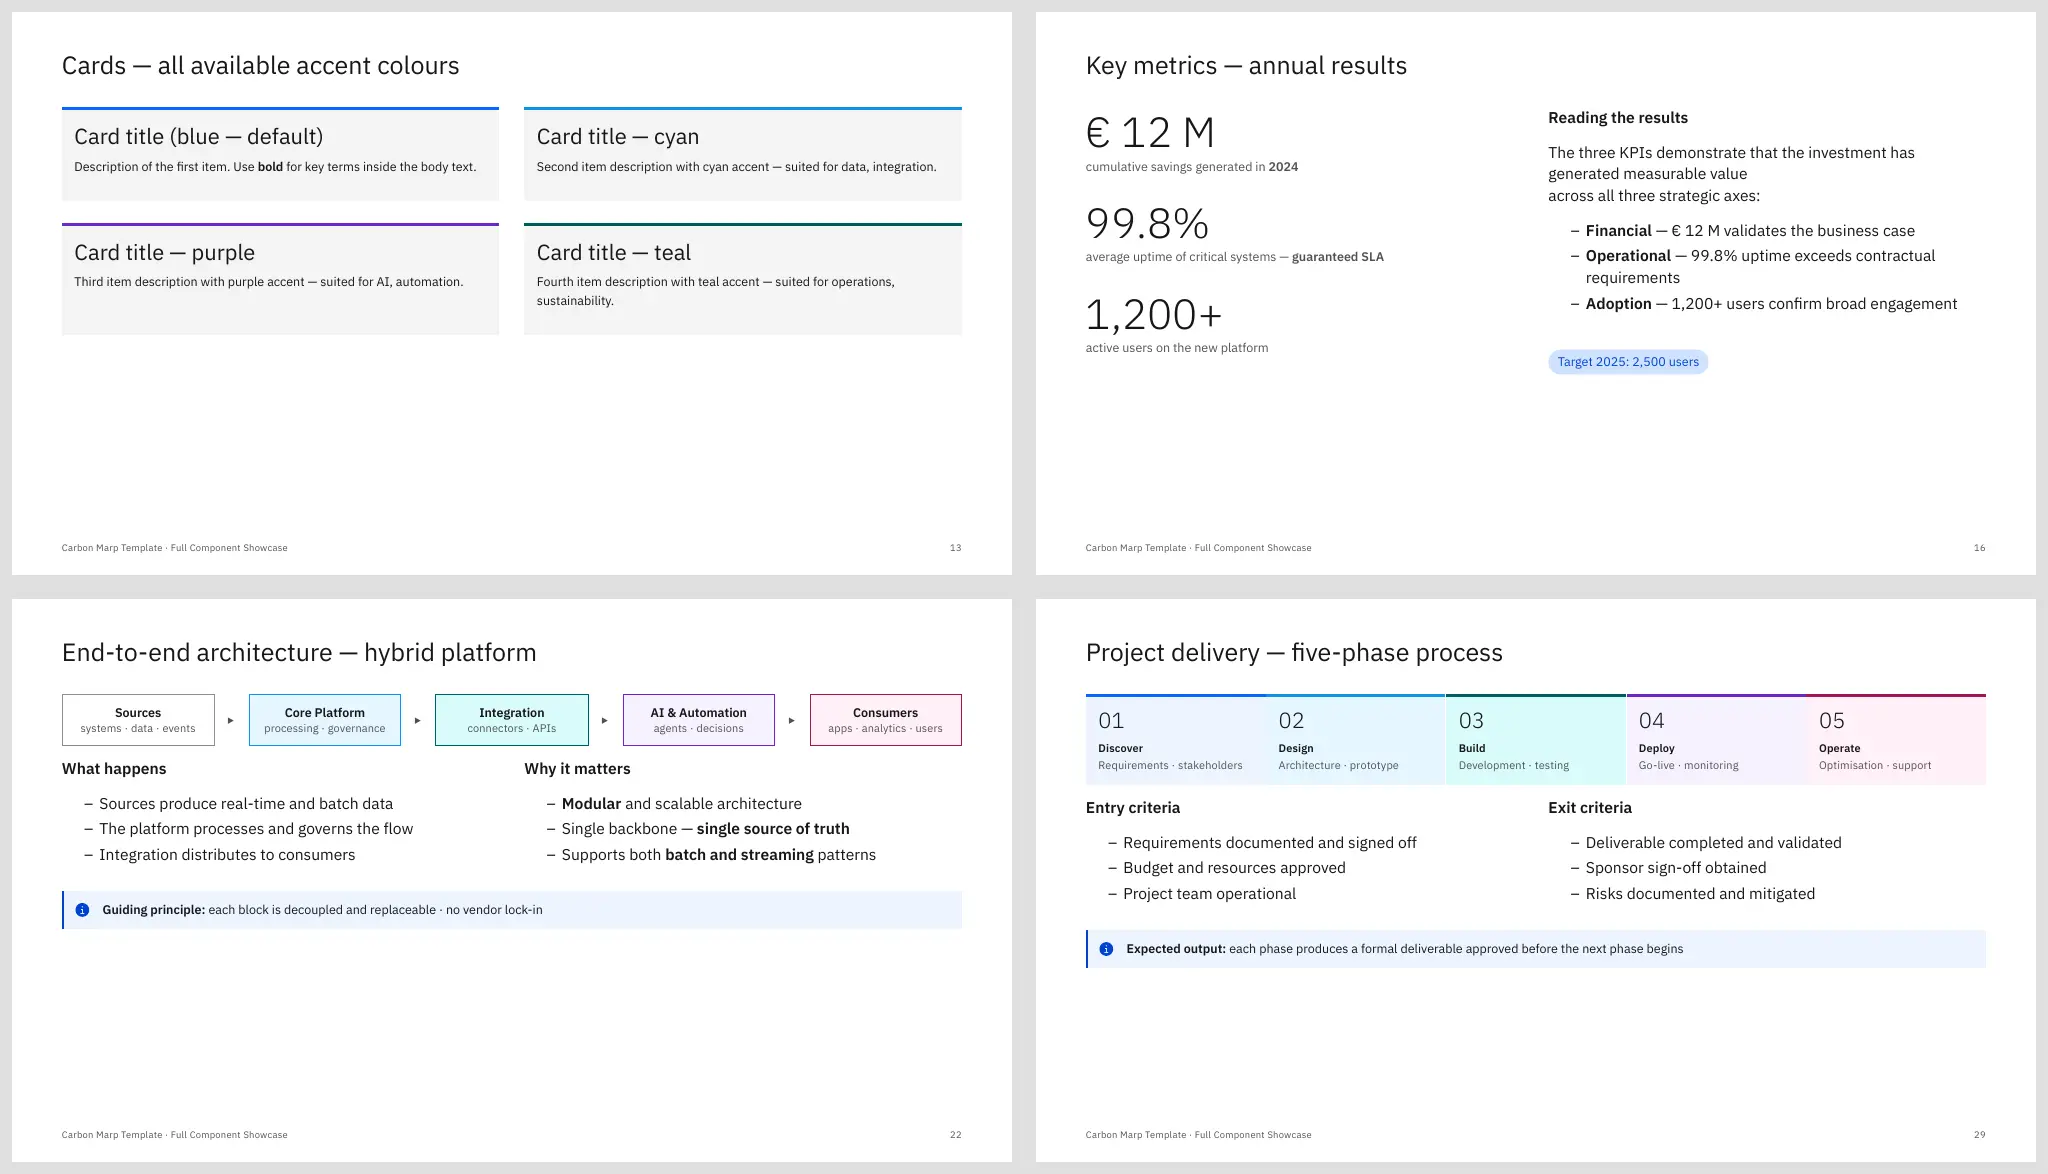
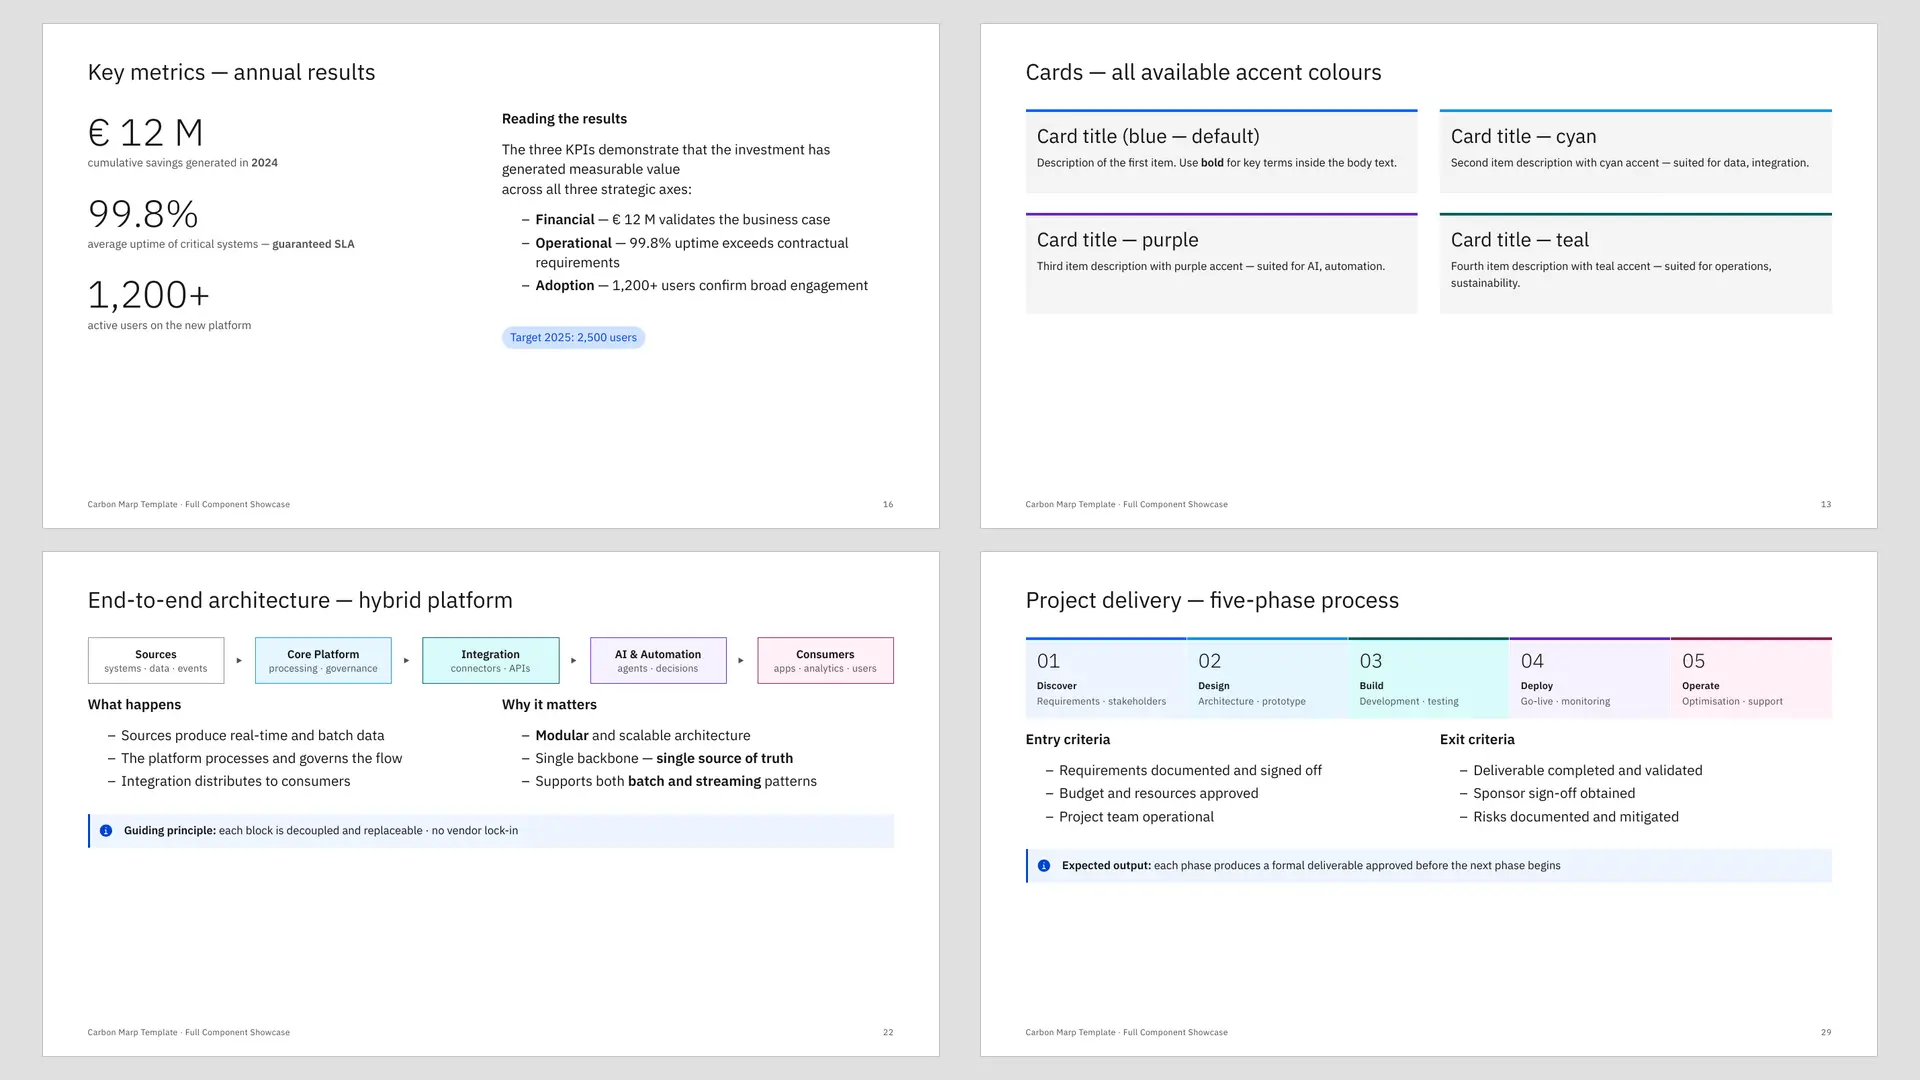
Copertine delle schede Progetti in 16:9
- Copertina di carbon-marp-deck rifatta a 1920x1080 (era 2048x1174).
- Lo shortcode progetto ferma la build se la copertina manca o non è in 16:9.
- Regola documentata in archetype e docs/progetti.md.

Changed region(s): [[0.0, 0.0, 1.0, 1.0], [0.75, 0.0917, 0.9375, 0.3361]]

diff --git a/layouts/_shortcodes/progetto.html b/layouts/_shortcodes/progetto.html
@@ -11,7 +11,8 @@
      - "status" diverso da alpha, beta, stable;
      - "lastmod" diverso dalla data della voce più recente di "updates":
        la data mostrata al lettore e quella della cronologia devono
-       coincidere. */ -}}
+       coincidere;
+     - copertina (cover.image, in static/) assente o non in 16:9. */ -}}
 {{- $page := .Page -}}
 {{- $p := $page.Params.project -}}
 {{- if not $p -}}{{- errorf "progetto: manca il blocco project: nel front matter (%s)" .Position -}}{{- end -}}
@@ -26,6 +27,18 @@
 {{- $latestDate := time.AsTime $latest.date -}}
 {{- if ne ($latestDate.Format "2006-01-02") ($page.Lastmod.Format "2006-01-02") -}}
   {{- errorf "progetto: lastmod (%s) non coincide con la voce più recente di project.updates (%s) (%s)" ($page.Lastmod.Format "2006-01-02") ($latestDate.Format "2006-01-02") .Position -}}
+{{- end -}}
+
+{{- with $page.Params.cover.image -}}
+  {{- $file := path.Join "static" . -}}
+  {{- if not (fileExists $file) -}}{{- errorf "progetto: copertina %s non trovata (%s)" $file $.Position -}}{{- end -}}
+  {{- $img := images.Config $file -}}
+  {{- /* 16:9 con tolleranza di un pixel ogni cento, per gli arrotondamenti. */ -}}
+  {{- if gt (math.Abs (sub (mul $img.Width 9) (mul $img.Height 16))) (div (mul $img.Width 9) 100) -}}
+    {{- errorf "progetto: la copertina %s è %dx%d, deve essere in 16:9 (es. 1600x900) (%s)" $file $img.Width $img.Height $.Position -}}
+  {{- end -}}
+{{- else -}}
+  {{- errorf "progetto: manca cover.image nel front matter (%s)" .Position -}}
 {{- end -}}
 
 {{- $repo := printf "https://github.com/%s" $p.repo -}}

diff --git a/docs/progetti.md b/docs/progetti.md
@@ -65,7 +65,8 @@ hugo new --kind progetto blog/<slug>.en.md
 ```
 
 Lo scheletro viene da `archetypes/progetto.md`. Le immagini vanno in
-`static/blog/<slug>/`, in WebP, larghezza massima 1600 px.
+`static/blog/<slug>/`, in WebP: copertina in 16:9, le altre con larghezza
+massima 1600 px.
 
 ## Regole di scrittura
 
@@ -82,6 +83,9 @@ Lo scheletro viene da `archetypes/progetto.md`. Le immagini vanno in
 - **Ordine (`series_weight`):** prima i prodotti per utenti finali legati agli
   altri percorsi del sito, poi gli strumenti per sviluppatori. Pesi attuali:
   1 Fuorigiri Performance Lab, 2 carbon-marp-deck.
+- **Copertina:** in 16:9 (1600x900 o 1920x1080, WebP). Lo shortcode ferma la
+  build se le proporzioni sono diverse. Se lo screenshot di partenza ha
+  un'altra forma, va ritagliato o messo su uno sfondo neutro, non deformato.
 - **Immagini:** solo dati sintetici; nessun nome, risultato o file reale di
   atleti.
 - **Fonti:** ogni affermazione deve essere verificabile nel repository alla

diff --git a/archetypes/progetto.md b/archetypes/progetto.md
@@ -23,6 +23,8 @@ series_weight: 0
 tags: ["software", "open-source"]
 author: "lb"
 showToc: false
+# Copertina in 16:9 (consigliato 1600x900 o 1920x1080, WebP): la build si
+# ferma se le proporzioni sono diverse.
 cover:
     image: blog/<slug>/<immagine>.webp
     alt: ""
